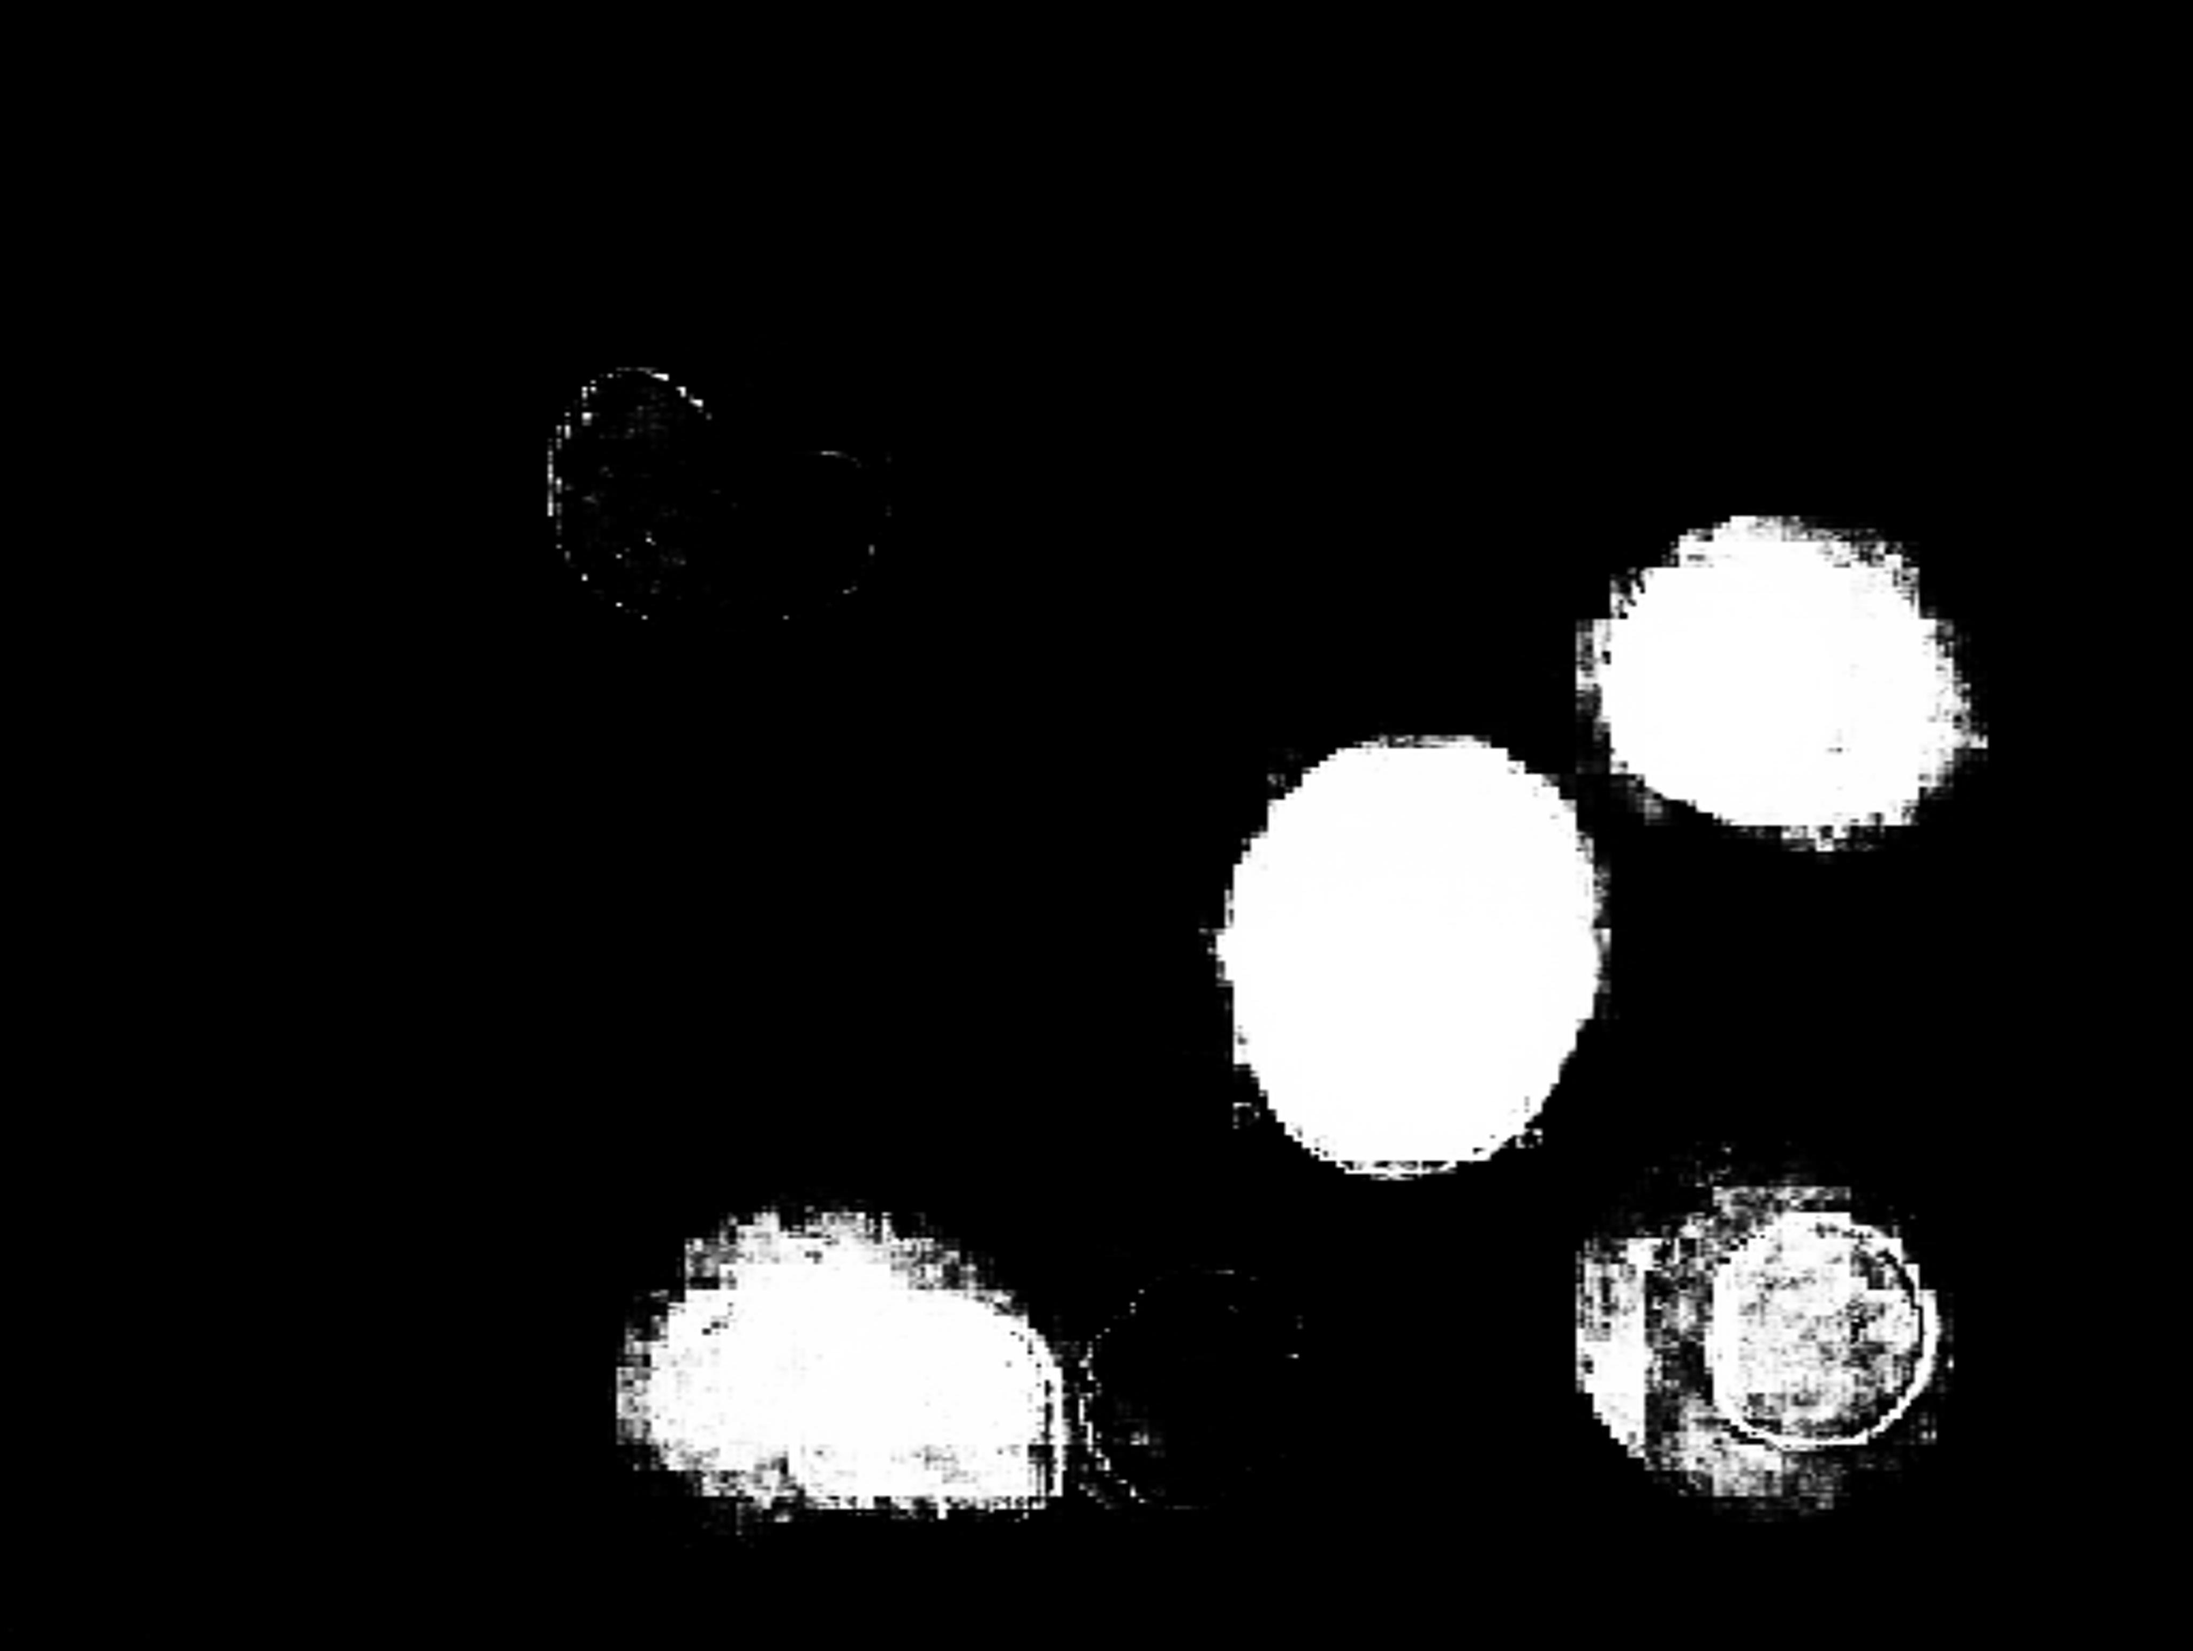
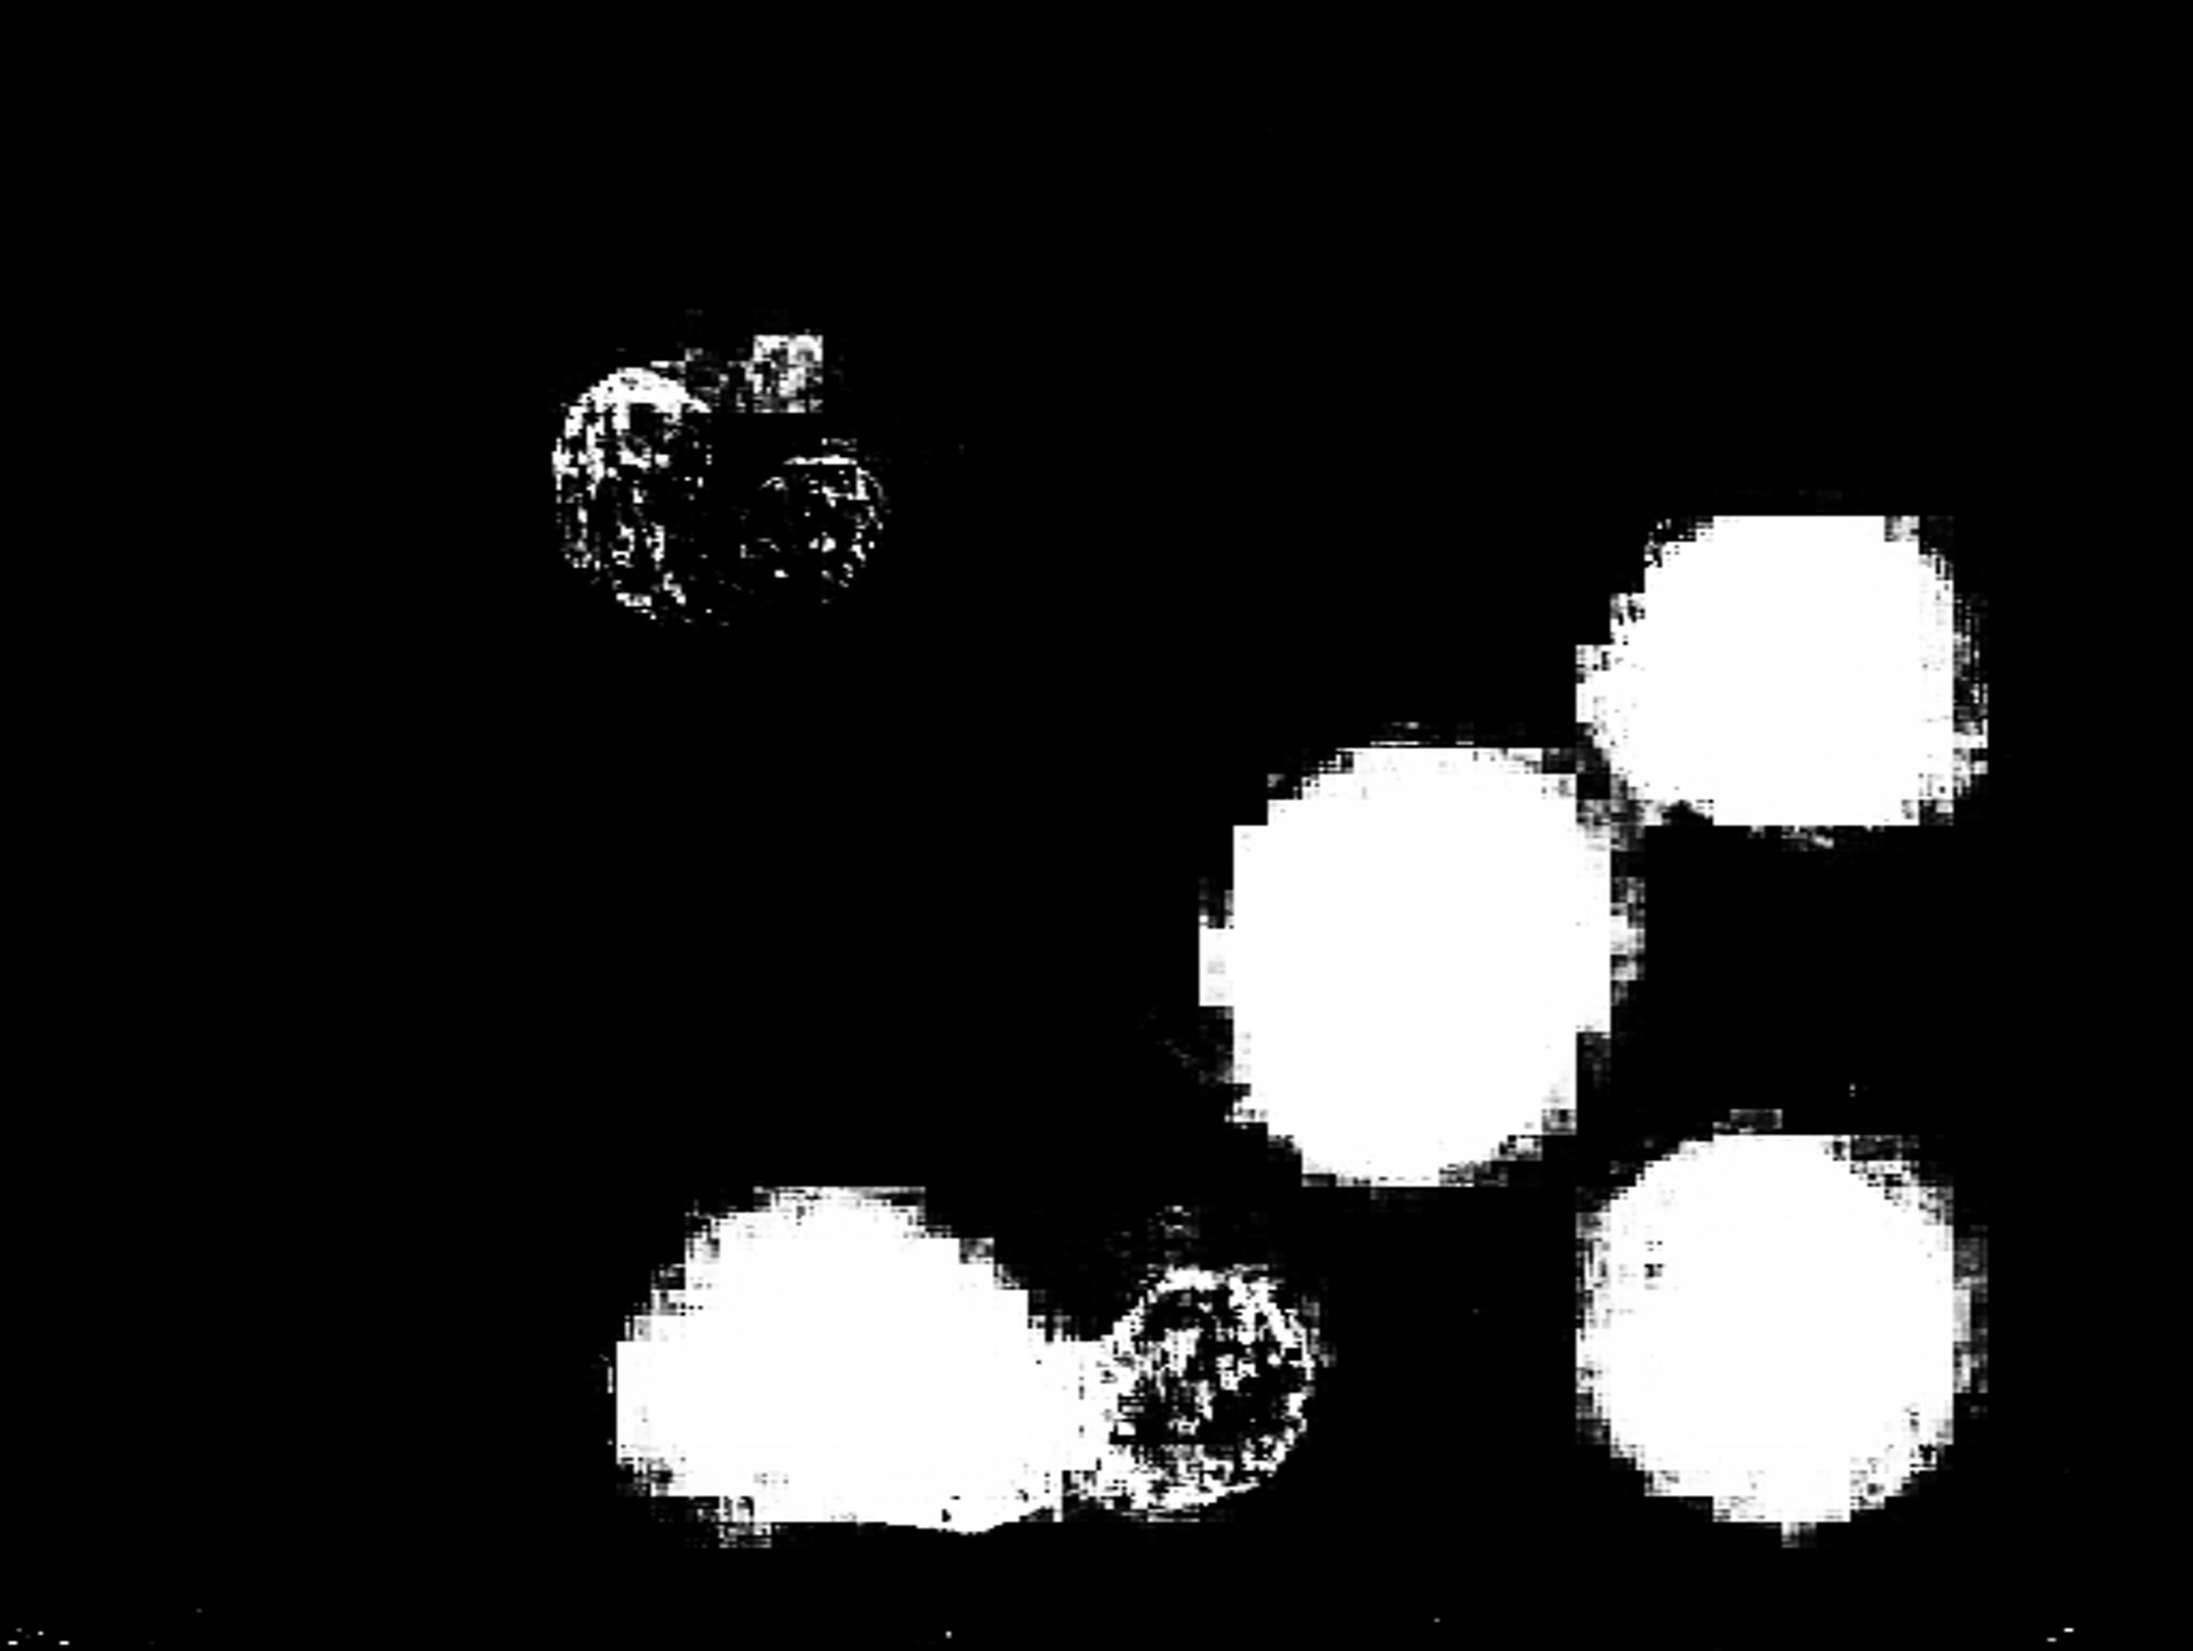
Fixed a bug in infer_tiles method of TensorflowUNet.py

diff --git a/src/BaseImageMaskDataset.py b/src/BaseImageMaskDataset.py
@@ -48,9 +48,14 @@ class BaseImageMaskDataset:
     self.image_height   = self.config.get(MODEL, "image_height")
     self.image_channels = self.config.get(MODEL, "image_channels")
     
-    self.binarize  = self.config.get(MASK, "binarize")
-    self.threshold = self.config.get(MASK, "threshold")
-    self.blur_mask = self.config.get(MASK, "blur")
+    self.binarize       = self.config.get(MASK, "binarize")
+    self.algorithm      = self.config.get(MASK, "algorithm", dvalue=None)
+    print("--- binarize algorithm {}".format(self.algorithm))
+    if self.algorithm !=None:
+      self.algorithm = eval(self.algorithm)
+
+    self.threshold      = self.config.get(MASK, "threshold")
+    self.blur_mask      = self.config.get(MASK, "blur")
   
     self.blur_size = self.config.get(MASK, "blur_size", dvalue=(3,3))
 

diff --git a/src/ImageMaskDataset.py b/src/ImageMaskDataset.py
@@ -56,8 +56,15 @@ class ImageMaskDataset(BaseImageMaskDataset):
                        interpolation=self.resize_interpolation)                       
  
     if self.binarize:
-      mask[mask< self.threshold] =   0
-      mask[mask>=self.threshold] = 255
+      if  self.algorithm == cv2.THRESH_TRIANGLE or self.algorithm == cv2.THRESH_OTSU: 
+        _, mask = cv2.threshold(mask, 0, 255, self.algorithm)
+      if  self.algorithm == cv2.THRESH_BINARY or self.algorithm ==  cv2.THRESH_TRUNC: 
+        #_, mask = cv2.threshold(mask, 127, 255, self.algorithm)
+        _, mask = cv2.threshold(mask, self.threshold, 255, self.algorithm)
+
+      elif self.algorithm == None:
+        mask[mask< self.threshold] =   0
+        mask[mask>=self.threshold] = 255
 
     # Blur mask 
     if self.blur_mask:
